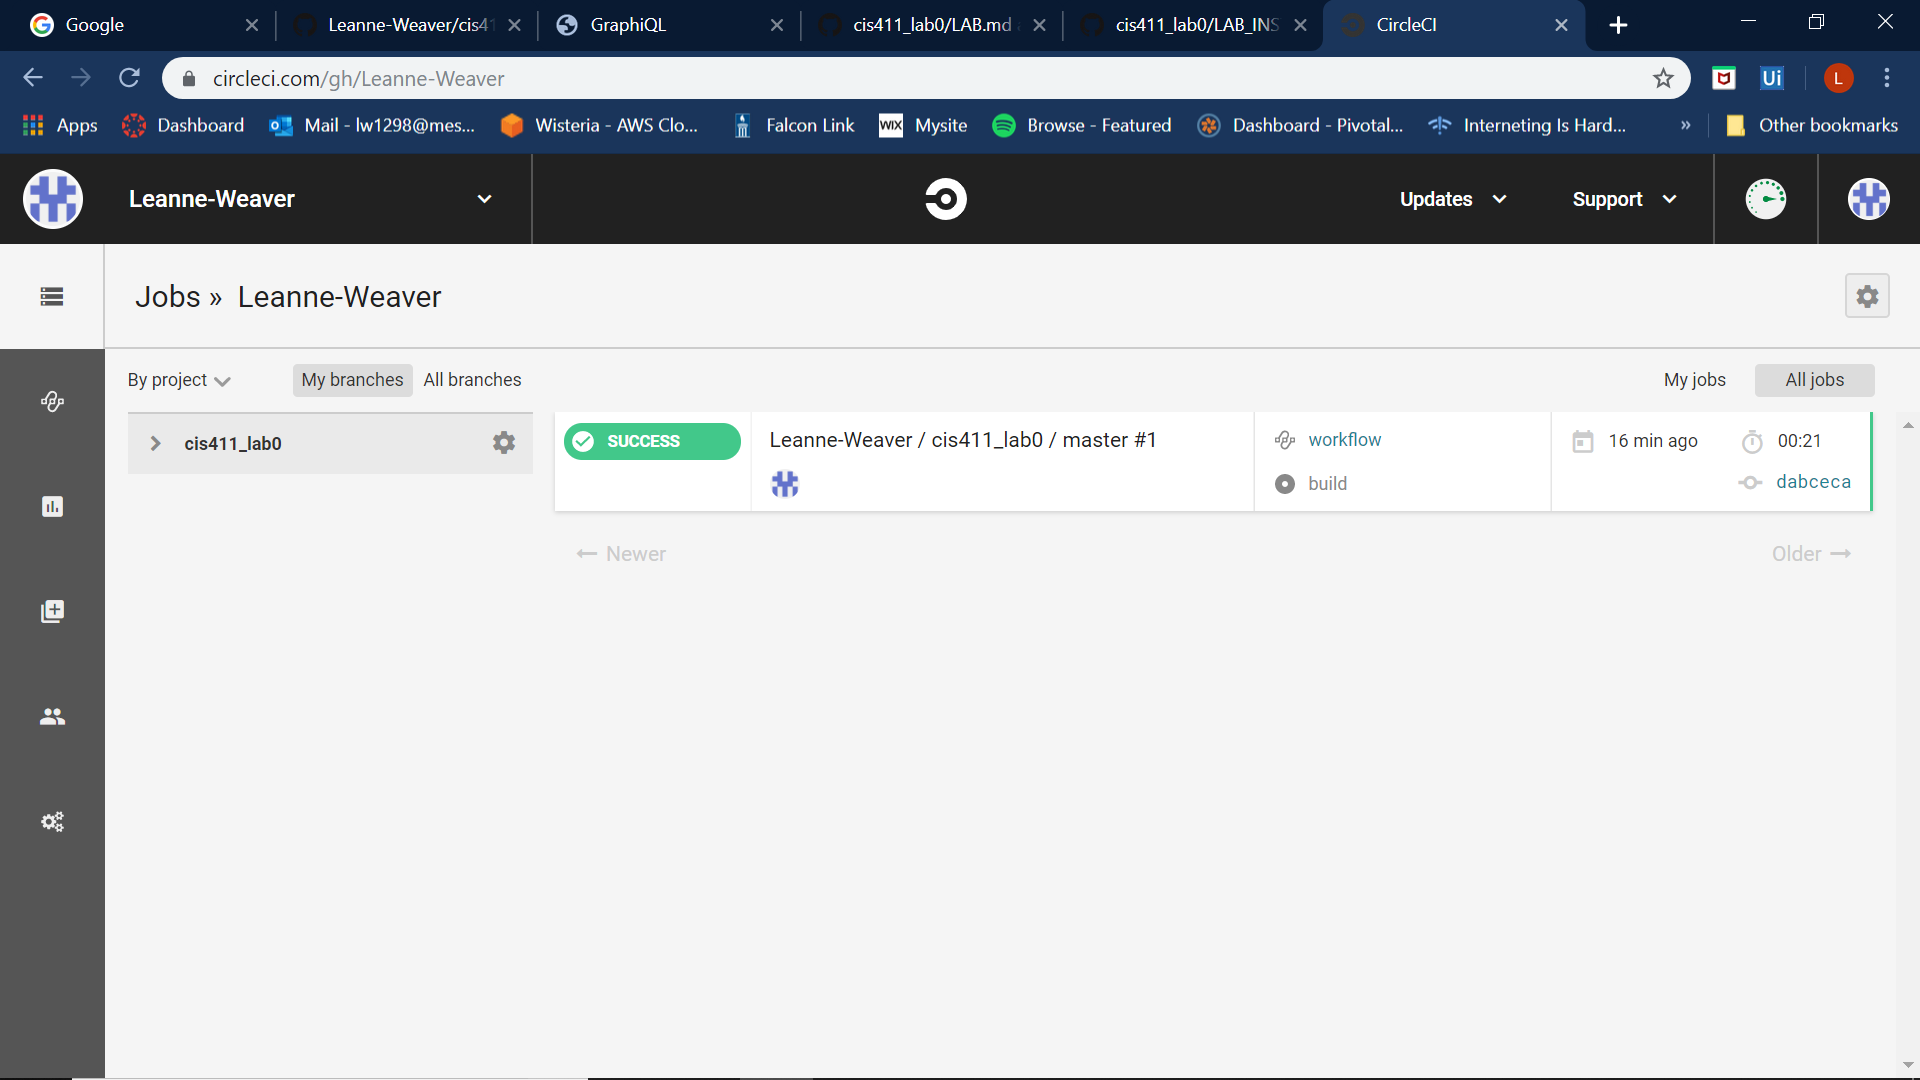
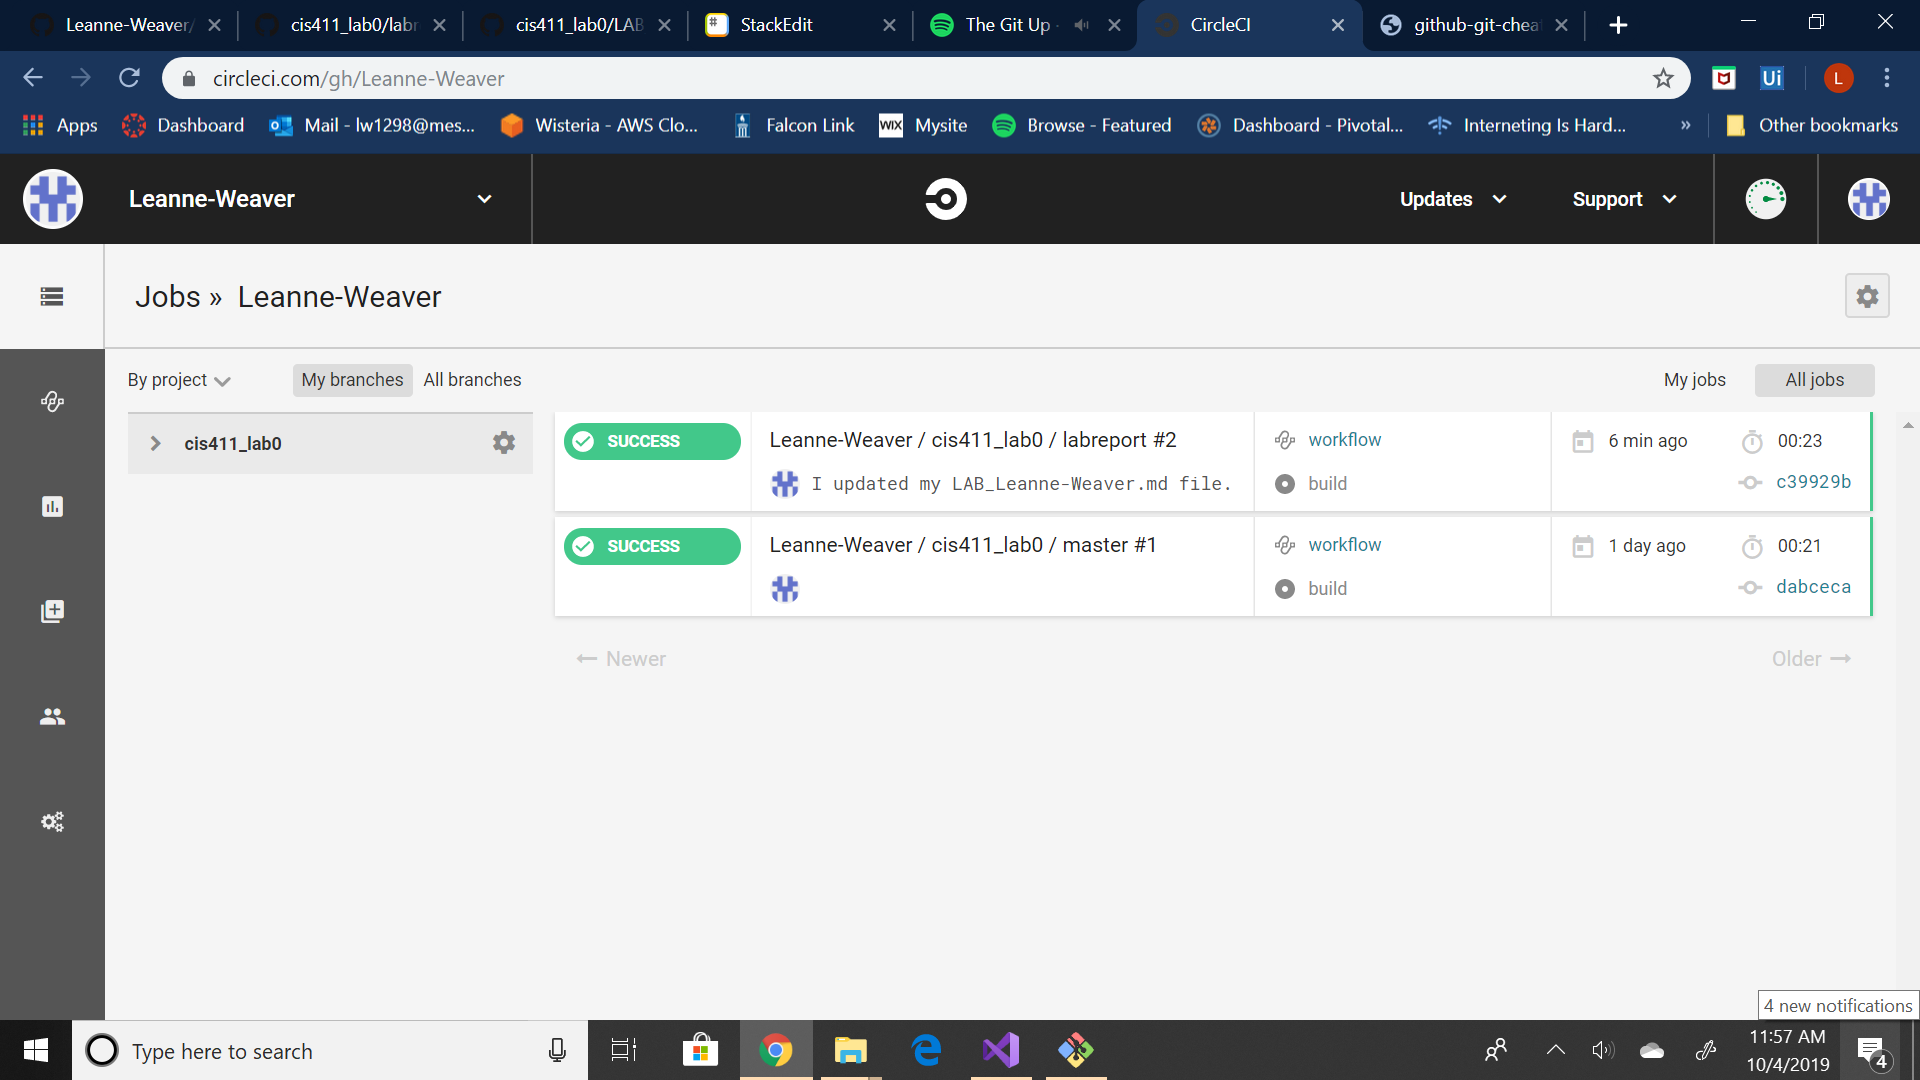
Update question to Step 4

diff --git a/labreports/LAB_Leanne-Weaver.md b/labreports/LAB_Leanne-Weaver.md
@@ -7,10 +7,11 @@ GitHub: Leanne-Weaver (https://github.com/Leanne-Weaver)<br/>
 # Step 1: Fork this repository
 - The URL of my forked repository
 	https://github.com/Leanne-Weaver/cis411_lab0
-- The accompanying diagram of what my fork precisely and conceptually represents
+- The accompanying diagram of what my fork precisely and conceptually represents. 
 (Additional branches, develop and feature_1, were used to demonstrate the difference between a fork and a merge, 
 as well as the difference between a merge and a pull request.)
 ![Git Diagram: Step 1](../assets/Git_Diagram_Step1.jpg)
+
 # Step 2: Clone your forked repository from the command line
 - My GraphQL response from adding myself as an account on the test project
 ```
@@ -57,8 +58,11 @@ fe1937b more in the lab instructions
 
 # Step 4: Setup a Continuous Integration configuration
 - What is the .circleci/config.yml doing?<br/>
+
 This is a YAML (YAML Ain't Markup Language) file that identifies how the testing environment will be set up, along with the kind of tests that will be run.<br/>
+
 - What do the various sections on the config file do?<br/>
+
 The ```version``` portion specifies which version of CircleCI will be used.
 The ```jobs``` portion contains instructions for jobs that CircleCI might execute.
 The ```build``` is one of the jobs. In ```docker```, a Docker image is specified, which will be the job's primary container for when CircleCI launches a virtual environment.
@@ -71,9 +75,15 @@ Finally, ```yarn test``` is ran by CircleCI to ensure that it was installed succ
 The ```workflows``` is a set of rules for defining a collection of jobs and their execution order.
 
 I used CircleCI documentation, [Adding a YML File](https://circleci.com/docs/2.0/getting-started/#adding-a-yml-file), [Workflows Overview](https://circleci.com/docs/2.0/workflows/#overview), and [Caching](https://circleci.com/docs/2.0/caching/), to inform me about the portions of the code used.<br/>
+
 - When a CI build is successful, what does that philosophically and practically/precisely indicate about the build?<br/>
-When a build is successful, that means that there were no errors when CircleCI was following the instructions specified in the .yaml file; the environment was spun, the workflows executed, and the jobs completed.
+
+When a build is successful, that means that there were no errors when CircleCI was following the instructions specified in the .yaml file. The environment was spun, the workflows were executed, and the jobs were completed.
+
 - If you were to take the next step and ready this project for Continuous Delivery, what additional changes might you make in this configuration (conceptual, not code)?<br/>
+
+If this project were to move into Continuous Delivery, I'd add Rollbar to track errors after deployment and identify which code changes caused those errors.
+(I used [this blog](https://circleci.com/blog/tracking-errors-after-deployments-with-rollbar-and-circleci/) and [that blog](https://circleci.com/blog/persisting-data-in-workflows-when-to-use-caching-artifacts-and-workspaces/) from CircleCI to help me brainstorm.)
 
 # Step 5: Merging the feature branch
 * The output of my git commit log
@@ -126,7 +136,7 @@ ab312fc more progress
 fe1937b more in the lab instructions                                            
 3e807fb first section                                                     
 ```
-* A screenshot of the _Jobs_ list in 
+* A screenshot of the _Jobs_ list in CircleCI
 ![Jobs List in CircleCI](../assets/circleci_screenshot.png)
 
 # Step 6: Submitting a Pull Request
